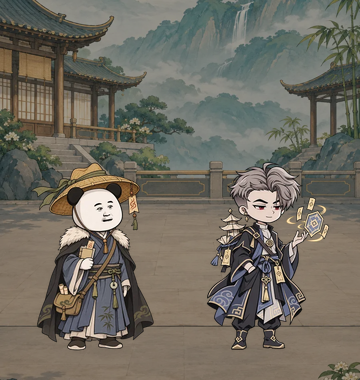
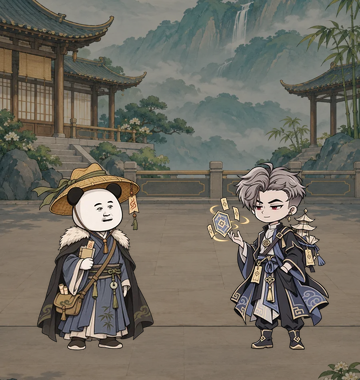
Fix Han Boi Phap arena facing

Changed region(s): [[0.5806, 0.4053, 0.9167, 0.9263]]

diff --git a/tasks/T009-arena-doc-va-asset/test_arena_renderer.js b/tasks/T009-arena-doc-va-asset/test_arena_renderer.js
@@ -6,7 +6,10 @@ const Renderer=window.ArenaRenderer;
 assert.equal(Renderer.facingFlip("ha-nhan","left"),false);
 assert.equal(Renderer.facingFlip("ha-nhan","right"),true);
 assert.equal(Renderer.facingFlip("tuyet-dinh","left"),true);
-assert.equal(Renderer.facingFlip("han-boi-phap","right"),false);
+assert.equal(Renderer.facingFlip("tuyet-dinh","right"),false);
+assert.equal(Renderer.facingFlip("han-boi-phap","left"),false);
+assert.equal(Renderer.facingFlip("han-boi-phap","right"),true);
+assert.throws(()=>Renderer.facingFlip("unknown","left"));
 function calls(side,time){
   const list=[];
   const fake={draw:(...args)=>list.push(args),ctx:{fillText(){},save(){},restore(){}}};

diff --git a/demo/arena-renderer.js b/demo/arena-renderer.js
@@ -2,7 +2,8 @@
 // Visual research demo. The backend must own combat results in a real match.
 window.ArenaRenderer = class ArenaRenderer {
   static facingFlip(slug, side) {
-    const nativeFacing = slug === "ha-nhan" ? "right" : "left";
+    const nativeFacing = {"ha-nhan":"right","han-boi-phap":"right","tuyet-dinh":"left"}[slug];
+    if (!nativeFacing || !["left","right"].includes(side)) throw new Error("Unknown actor facing");
     return (side === "left" && nativeFacing === "left") || (side === "right" && nativeFacing === "right");
   }
   constructor(canvas) {

diff --git a/scripts/build_game_assets.py b/scripts/build_game_assets.py
@@ -14,6 +14,7 @@ from PIL import Image, ImageDraw
 
 ROOT = Path(__file__).resolve().parents[1] / "demo" / "assets" / "game"
 SLUGS = ("ha-nhan", "han-boi-phap", "tuyet-dinh")
+NATIVE_FACING = {"ha-nhan": "right", "han-boi-phap": "right", "tuyet-dinh": "left"}
 ACTIONS = ("basic", "skill1", "skill2", "victory")
 STATES = ("hurt", "stun", "heal")
 POSES = ("idle", "basic", "skill1", "skill2", "hurt", "stun")
@@ -108,7 +109,7 @@ def build_character(slug: str) -> dict:
     master = Image.open(source / "master.png").convert("RGBA")
     idle = register([master])[0]
     idle.save(runtime / "idle.webp", "WEBP", quality=86, method=3)
-    result = {"idle": "idle.webp", "actions": {}, "native_facing": "right" if slug == "ha-nhan" else "left", "display_height_px": 400}
+    result = {"idle": "idle.webp", "actions": {}, "native_facing": NATIVE_FACING[slug], "display_height_px": 400}
     for action in ACTIONS:
         frames = register([matte(t) for t in tiles(Image.open(source / f"{action}.png").convert("RGBA"))])
         result["actions"][action] = save_animation(

diff --git a/scripts/render_stage_previews.py b/scripts/render_stage_previews.py
@@ -5,6 +5,7 @@ from PIL import Image, ImageEnhance
 ROOT = Path(__file__).resolve().parents[1]
 ART = ROOT / "demo/assets/game"
 OUT = ROOT / "tasks/T009-arena-doc-va-asset"
+NATIVE_FACING = {"ha-nhan": "right", "han-boi-phap": "right", "tuyet-dinh": "left"}
 source = Image.open(ART / "maps/study-courtyard.webp").convert("RGBA")
 w, h = source.size
 crop_h = round(w * 380 / 360)
@@ -13,7 +14,7 @@ background = ImageEnhance.Brightness(source.crop((0, top, w, top + crop_h)).resi
 
 def sprite(slug: str, side: str) -> Image.Image:
     picture = Image.open(ART / "characters" / slug / "runtime/idle.webp").convert("RGBA")
-    native = "right" if slug == "ha-nhan" else "left"
+    native = NATIVE_FACING[slug]
     wanted = "right" if side == "left" else "left"
     if native != wanted:
         picture = picture.transpose(Image.Transpose.FLIP_LEFT_RIGHT)

diff --git a/scripts/check_game_assets.py b/scripts/check_game_assets.py
@@ -16,7 +16,7 @@ manifest = json.loads((ROOT / "manifest.json").read_text(encoding="utf-8"))
 assert manifest["logical_stage_px"] == [360, 380]
 assert manifest["display_actor_size_px"] == [240, 240]
 assert manifest["actor_root_px"] == {"left": [92, 350], "right": [268, 350]}
-for slug, facing in (("ha-nhan", "right"), ("han-boi-phap", "left"), ("tuyet-dinh", "left")):
+for slug, facing in (("ha-nhan", "right"), ("han-boi-phap", "right"), ("tuyet-dinh", "left")):
     folder = ROOT / "characters" / slug
     assert manifest["characters"][slug]["native_facing"] == facing
     idle = Image.open(folder / "runtime/idle.webp").convert("RGBA")

diff --git a/tasks/T009-arena-doc-va-asset/handoff.md b/tasks/T009-arena-doc-va-asset/handoff.md
@@ -3,8 +3,10 @@
 - **Trạng thái:** `verifying`; asset/logic/docs đạt kiểm tự động, chưa có thao tác browser và Android thật.
 - **Đã làm:** chuẩn hóa sprite 512²/root chân, hướng riêng từng tướng, render sân dọc 360×380; projectile hai hướng và hit/self FX đúng tọa độ; 9 FX SVG theo tướng/chiêu, 3 passive, 21 action/status clip WebP, 17 âm WAV, map, 6 avatar và 7 khung. Có câu mẫu, nút chiêu, preview trạng thái, giảm chuyển động, tắt âm/bỏ qua, clip thắng. Mỗi tướng một folder `source/runtime/poses/fx/audio`. Layout T008 cũ đã bỏ.
 - **Docs/code:** `demo/arena*`, `demo/arena-rules.js`, `demo/assets/game`, `scripts/build_game_*`, `scripts/build_rank_frames.py`, `scripts/check_game_assets.py`, `scripts/render_stage_previews.py`, `docs/49–51`, README và docs nguồn liên quan.
-- **Test đã chạy:** xem [tests.md](tests.md); asset, JS rule/renderer, syntax, doc links, task records, diff đều exit 0 ngày 12/11/2026 Windows. Ba ảnh `stage-*-vs-*.png` đã xem: tướng cùng baseline, nhìn nhau, không cắt chân.
+- **Sửa ngày 13/11:** ảnh người dùng phát hiện Hàn Bối Pháp quay ra ngoài khi đứng trái. Sprite gốc thực tế nhìn phải; đã sửa `native_facing` trong renderer, builder, manifest, preview và QA thành `right`. Hai ảnh ghép mới cho thấy Hàn Bối Pháp quay vào đối thủ ở cả hai slot; các action dùng cùng phép lật.
+- **Test đã chạy:** xem [tests.md](tests.md); asset, JS rule/renderer, syntax, doc links, task records, diff đạt kiểm tự động. Hai ảnh preview Hàn Bối Pháp ở trái/phải đã xem lại ngày 13/11: tướng cùng baseline, nhìn nhau, không cắt chân. Chưa xác minh chuyển động trên điện thoại thật.
 - **Chưa chạy:** Chrome/Android thật ở 320/360/390 dp; nghe âm/kiểm file picker, thao tác từng nút, animation lặp; công cụ browser trong phiên không mở được `localhost`/`file:`. Không có APK hoặc PvP server để test.
 - **Rủi ro:** frame sequence còn sai khác chi tiết giữa frame; Hà Nhân thắng chuyển động nhẹ, renderer thêm nhịp nhấc; họa sĩ phải duyệt trước phát hành. Chủ dự án xác nhận quyền đăng GitHub, quyền thương mại cần rà riêng. Số combat chưa playtest.
-- **Điểm tiếp tục:** trên điện thoại Android cùng Wi-Fi mở `http://<IP-máy-tính>:8000/demo/arena.html` sau `python -m http.server 8000`; với từng tướng làm câu mẫu/đánh thường/2 chiêu, kiểm projectile chạm bên kia, passive, choáng/hồi/thắng, âm/mute/skip và không tràn ở 320/360/390 dp. Ghi kết quả TC-01–05 tại `tests.md`; chỉ đổi `done` khi đạt. Nếu sửa luật, cập nhật docs/46 và test cùng task mới.
+- **Điểm tiếp tục:** trên điện thoại Android cùng Wi-Fi mở `http://<IP-máy-tính>:8000/demo/arena.html` sau `python -m http.server 8000`; chọn Hàn Bối Pháp lần lượt ở trái và phải, xem idle/đánh thường/2 chiêu luôn hướng vào đối thủ. Sau đó kiểm projectile, passive, choáng/hồi/thắng, âm/mute/skip và màn 320/360/390 dp. Ghi kết quả TC-01–05 và TC-09 tại `tests.md`; chỉ đổi `done` khi đạt.
 - **Push GitHub:** commit asset/docs `1aa6af70f20496ff41f7c6b36c57b15e283fecbc` đã có trên `origin/main`; GitHub API xác nhận cùng SHA. Bản ghi bàn giao cuối được đẩy ở commit tiếp theo.
+- **Bản sửa hướng nhìn 13/11:** thay đổi đang được đẩy lên `origin/main`; xem lịch sử Git sau khi đồng bộ để lấy SHA. Task vẫn ở `verifying` cho tới khi kiểm trên điện thoại thật.

diff --git a/tasks/T009-arena-doc-va-asset/tests.md b/tasks/T009-arena-doc-va-asset/tests.md
@@ -2,7 +2,7 @@
 
 | ID | AC | Kịch bản | Kỳ vọng | Cách chạy | Kết quả |
 | --- | --- | --- | --- | --- | --- |
-| TC-01 | AC-01 | So alpha bbox/foot/scale 3 master và frame; actor trái/phải | cùng baseline/height; không cắt chân | script geometry + ảnh sân | Đạt phần tĩnh: `check_game_assets.py`; đã xem ba `stage-*-vs-*.png`, chân/hướng/tỉ lệ khớp. Chưa xem motion trên máy thật |
+| TC-01 | AC-01 | So alpha bbox/foot/scale 3 master và frame; actor trái/phải | cùng baseline/height; không cắt chân | script geometry + ảnh sân | Đạt baseline/tỉ lệ tĩnh; nhận định hướng ngày 12/11 bỏ sót Hàn Bối Pháp khi ở slot trái. Đã mở TC-09 để sửa và kiểm lại. Chưa xem motion trên máy thật |
 | TC-02 | AC-02 | 3×3 đòn; tự buff/hồi; projectile hai hướng | đúng loại VFX, origin/impact/target | JS unit + asset QA | Đạt logic: `test_arena_renderer.js` kiểm target hai phía; 9 FX SVG khác nhau. Chờ xem hình động Android |
 | TC-03 | AC-03 | hurt/stun/win/mute/skip | âm chỉ sau click, đúng tướng/hành động, số đúng | JS + manual audio | Đạt cấu trúc: 21 clip, 17 WAV có format/peak hợp lệ; code bật/tắt/bỏ qua. Chưa nghe trên thiết bị |
 | TC-04 | AC-04 | 320/360/390px portrait, desktop | không tràn, đề/nút luôn dùng được | browser/manual hoặc static fallback | Đã kiểm CSS/logic và ảnh stage 360×380; **chưa đạt kiểm browser/Android thật** vì công cụ UI không mở localhost/file |
@@ -13,4 +13,12 @@
 
 Không coi web demo là test PvP online/Android/iOS.
 
+## Hồi quy hướng nhìn ngày 13/11/2026
+
+| ID | AC | Kịch bản | Kỳ vọng | Cách chạy | Kết quả |
+| --- | --- | --- | --- | --- | --- |
+| TC-09 | AC-09 | Hàn Bối Pháp ở slot trái và phải, cặp với Tuyệt Đỉnh/Hà Nhân; mọi action dùng cùng quy tắc lật | Cặp tướng nhìn nhau, chân/size không đổi | Xem hai ảnh `stage-han-boi-phap-vs-tuyet-dinh.png` và `stage-ha-nhan-vs-han-boi-phap.png`; chạy unit facing và asset manifest | Đạt phần tĩnh/logic: source `basic.png` gốc nhìn phải, hai ảnh preview cho thấy mặt quay vào nhau; `test_arena_renderer.js` và `check_game_assets.py` đạt. Chưa xem motion trên Android thật. |
+
 **Lệnh đã chạy:** `node --check demo/arena.js`, `node --check demo/arena-renderer.js`, `node tasks/T009-arena-doc-va-asset/test_arena_rules.js`, `node tasks/T009-arena-doc-va-asset/test_arena_renderer.js`, `python scripts/check_game_assets.py`, `python scripts/check_docs_links.py`, `python scripts/check_task_records.py`, `git diff --check`. Tất cả exit 0 ngày 12/11/2026. `git diff --check` chỉ báo chuyển LF/CRLF của Windows, không có lỗi whitespace.
+
+**Chạy lại 13/11/2026 sau sửa TC-09:** `node --check demo/arena-renderer.js`, `node tasks/T009-arena-doc-va-asset/test_arena_renderer.js`, `python scripts/check_game_assets.py`, `python scripts/check_docs_links.py`, `python scripts/check_task_records.py`, `git diff --check` đều exit 0. `git diff --check` chỉ in cảnh báo LF/CRLF, không có lỗi whitespace.

diff --git a/tasks/T009-arena-doc-va-asset/worklog.md b/tasks/T009-arena-doc-va-asset/worklog.md
@@ -2,10 +2,11 @@
 
 | Vòng/ngày | Tái hiện và nguyên nhân | Sửa | Test lại/kết luận |
 | --- | --- | --- | --- |
-| 1 / 12-11-2026 | Ảnh người dùng: actor trái/phải khác cỡ, cắt chân; ảnh ghép đầu tiên 170 px vẫn quá nhỏ. | Chuẩn hóa mọi action 512²/root `(256,478)`, render 240²/root sân y=350; native facing từng tướng. | Xem 3 ảnh `stage-*-vs-*.png`: chân cùng baseline, hai bên nhìn nhau, không chạm mép. |
+| 1 / 12-11-2026 | Ảnh người dùng: actor trái/phải khác cỡ, cắt chân; ảnh ghép đầu tiên 170 px vẫn quá nhỏ. | Chuẩn hóa mọi action 512²/root `(256,478)`, render 240²/root sân y=350; native facing từng tướng. | Chân cùng baseline, không chạm mép. Kết luận hướng nhìn khi ấy bỏ sót Hàn Bối Pháp; xem vòng 6. |
 | 2 / 12-11-2026 | FX bitmap từ sheet còn nền màu, trông như một mảng bay và lặp chung. | 9 SVG projectile riêng từng tướng/chiêu, 3 status FX SVG; event bay từ attacker tới defender, self FX riêng. | `test_arena_renderer.js` đạt hai hướng; `check_game_assets.py` đạt 9 SVG unique. |
 | 3 / 12-11-2026 | QA báo thiếu `effects/runtime/*.svg`: script tạo sai `demo/assets/effects`. | Sửa path từ `ROOT.parent.parent` thành `ROOT.parent`, xóa folder thừa. | QA chạy lại đạt. |
 | 4 / 12-11-2026 | QA DOM báo thiếu `roster` ID trong HTML. | Thêm `id=roster`. | QA chạy lại đạt. |
 | 5 / 12-11-2026 | Docs/49 và README còn trỏ layout T008; T008 clip/video dễ bị hiểu nhầm là motion cuối. | Viết docs/49–51, README, dọn `demo/assets/arena` và exporter cũ; ghi rõ frame sequence/art review. | `check_docs_links.py`, `check_task_records.py` đạt; không còn ref runtime cũ trong demo. |
+| 6 / 13-11-2026 | Ảnh người dùng cho thấy Hàn Bối Pháp ở slot trái quay ra ngoài. `native_facing` trong renderer, builder, manifest, preview và QA ghi `left`, nhưng sprite nguồn thực tế nhìn phải. | Sửa native facing riêng Hàn Bối Pháp thành `right`; cập nhật test hai slot và dựng lại preview. | Hai ảnh ghép cho thấy Hàn Bối Pháp nhìn về đối thủ ở cả hai slot; unit/asset QA đạt. Chờ thao tác Android thật. |
 
 Giới hạn: browser automation trong phiên trước không mở được `localhost` hoặc `file:`; chưa có thao tác Chrome Android thật, nên task ở `verifying` dù script/ảnh tĩnh đạt.

diff --git a/docs/50-cau-truc-du-an-va-asset-game.md b/docs/50-cau-truc-du-an-va-asset-game.md
@@ -38,7 +38,7 @@ Không đưa file ảnh tham chiếu gốc của người dùng vào repo. `sour
 ## 2. Hợp đồng sprite và VFX
 
 - Canvas sprite **512 × 512 RGBA**, anchor chân `(256,478)`, không crop/fit mỗi frame theo bbox. Frame đầu của từng action quyết định một phép scale/translate cho toàn bộ action; frame sau giữ transform đó.
-- Logical stage **360 × 380**. Root trái `(92,350)`, phải `(268,350)`. Vẽ mỗi canvas sprite ở **240 × 240**: `x=rootX−120`, `y=rootY−478/512×240`; vùng alpha nhân vật hiển thị xấp xỉ 189 px cao. Gốc Hà Nhân nhìn phải, Hàn Bối Pháp và Tuyệt Đỉnh nhìn trái; chỉ lật sprite theo slot để hai bên nhìn nhau. Lật quanh canvas/anchor, không lật map, chữ, HP hoặc số sát thương.
+- Logical stage **360 × 380**. Root trái `(92,350)`, phải `(268,350)`. Vẽ mỗi canvas sprite ở **240 × 240**: `x=rootX−120`, `y=rootY−478/512×240`; vùng alpha nhân vật hiển thị xấp xỉ 189 px cao. Gốc **Hà Nhân và Hàn Bối Pháp nhìn phải**, Tuyệt Đỉnh nhìn trái. Chỉ lật sprite theo slot để hai bên nhìn nhau; Hàn Bối Pháp ở trái giữ ảnh gốc, ở phải mới lật. Lật quanh canvas/anchor, không lật map, chữ, HP hoặc số sát thương.
 - Map portrait được crop bằng **cover**, không kéo méo. Nền tĩnh, không có va chạm/chuyển màn. Chân nhân vật nằm trên nền đất; FX không được chôn vào ảnh nhân vật.
 - Projectile có `attacker_side`, điểm đầu `(attackerX ± 28,251)`, điểm cuối `(targetX ∓ 28,251)`, bay từ 120 đến 515 ms theo cung cao 22 px. `impact` chỉ ở mục tiêu lúc 515–815 ms. `selfEffect` chỉ ở người dùng chiêu. Đòn phản công đảo hướng. Chín SVG projectile trong từng folder nhân vật có hình học/màu khác nhau; không dùng chung một splash cho mọi chiêu.
 - `passive.svg` chỉ vẽ trên người sở hữu; `stun` quanh đầu, `healing` trên người được hồi, `victory` theo sprite/âm thanh của tướng. FX không thay số HP/giáp; kết quả thật phải từ event server. Giảm chuyển động dùng ảnh tĩnh/chữ và có `Bỏ qua`.

diff --git a/tasks/T009-arena-doc-va-asset/spec.md b/tasks/T009-arena-doc-va-asset/spec.md
@@ -27,4 +27,10 @@
 
 ## Quyết định
 
+**Bổ sung 13/11/2026 — lỗi hướng nhìn:** hai ảnh người dùng cho thấy Hàn Bối Pháp đang quay ra ngoài ở slot trái, trong khi Hà Nhân/Tuyệt Đỉnh đúng. Native facing của Han đã được gán nhầm `left`; phải là `right`. Chỉ đổi metadata/lật sprite của Han, giữ anchor/kích thước/đòn và hai tướng còn lại.
+
+| ID | Điều kiện | Hành vi | Test |
+| --- | --- | --- | --- |
+| AC-09 | Hàn Bối Pháp ở trái hoặc phải | mặt/hướng hành động quay về đối thủ ở cả hai slot; không lật số, map hoặc FX; mọi action cùng quy tắc | TC-09 |
+
 Không thể tạo clip image-to-video thật trong môi trường này (T008 doctor no-route). Sprite nhiều frame hiện là sequence art, cần artist review. Không mô tả nó là motion chuẩn phát hành. Dùng portrait battle plate được crop vào logical stage 360×380 với hai actor đối xứng và anchor theo metadata; sprite vẽ 240×240 nên hình alpha cao khoảng 188 px. Độ lớn được chuẩn hóa theo chiều cao alpha của frame đầu khi build, không theo kích thước PNG nguồn. Tên Hàn Bối Pháp là display name, ID giữ `han_boi_thap` tới khi chốt catalog.

diff --git a/tasks/T009-arena-doc-va-asset/README.md b/tasks/T009-arena-doc-va-asset/README.md
@@ -6,7 +6,7 @@
 - **Chủ sở hữu/reviewer:** Codex / chủ dự án.
 - **Source refs:** `docs/README.md` §Solo, `docs/43` khung rank, `docs/46` luật/asset, `docs/49` prototype, `tasks/T008-*/handoff.md`, `AGENTS.md`, `tasks/README.md`, `demo/arena.*`. Skills: `generate2dsprite`, `video2dsprite`, `generate2dmap`, `game-art`.
 - **Phạm vi:** `demo/`, `scripts/`, `docs/`, `README.md`, task này.
-- **Điểm tiếp tục:** theo `handoff.md`: kiểm Chrome Android 320/360/390 dp, từng chiêu/âm/avatar; ghi TC-01–05 rồi mới đổi `done`.
+- **Điểm tiếp tục:** kiểm Chrome Android thật hai slot của Hàn Bối Pháp, các action và màn 320/360/390 dp; ghi kết quả TC-01–05 và TC-09 trước khi đánh dấu `done`.
 
 ## Cổng trước coding
 

diff --git a/tasks/T009-arena-doc-va-asset/plan.md b/tasks/T009-arena-doc-va-asset/plan.md
@@ -8,6 +8,7 @@
 | 4 | Sửa web portrait, projectile/target FX, thẻ nhân vật/đề/nút/mute | thao tác mobile đọc rõ; logic số không sai | [x] (tĩnh/logic, chờ máy thật) |
 | 5 | README, docs cấu trúc/asset/runtime và docs nguồn chuẩn | không mô tả mock là đã chạy thật | [x] |
 | 6 | QA: logic, media, orientation/size, audio, responsive, diff, push | kết quả thực và remote commit xác minh | [ ] (chờ push, kiểm trình duyệt thật) |
+| 7 | Sửa riêng facing Hàn Bối Pháp theo phản hồi 13/11; đồng bộ renderer/manifest/builder/preview/docs và push | AC-09/TC-09 đạt | [x] (tĩnh/logic; chờ Android thật) |
 
 ## Rủi ro
 
